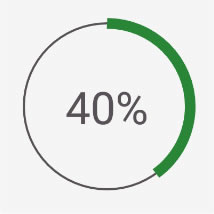
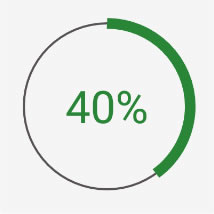
Documentation improvement

Changed region(s): [[0.3084, 0.4206, 0.7009, 0.5888]]

diff --git a/app/src/main/java/com/sccomponents/widgets/demo/MainActivity.java b/app/src/main/java/com/sccomponents/widgets/demo/MainActivity.java
@@ -16,33 +16,5 @@ public class MainActivity extends AppCompatActivity {
     protected void onCreate(Bundle savedInstanceState) {
         super.onCreate(savedInstanceState);
         setContentView(R.layout.activity_main);
-
-        // Get the gauge
-        final ScGauge gauge = (ScGauge) this.findViewById(R.id.gauge);
-        assert gauge != null;
-
-        // Hide the notchs.
-        // You can obtain the same result setting the notchs number to zero.
-        gauge.show(true, false, true);
-        // He set the value to 80% take as reference a range of 0, 100.
-        gauge.setValue(40, 0, 100);
-
-        // Event
-        gauge.setOnEventListener(new ScGauge.OnEventListener() {
-            @Override
-            public void onValueChange(float degrees) {
-                // Get the text control
-                TextView counter = (TextView) MainActivity.this.findViewById(R.id.counter);
-                assert counter != null;
-
-                // Note that I used translateAngleToValue but in this case is nonsense.
-                // In this case I could use getValue(0, 100) for have the same result.
-                // This is right if you are using the animator for move the value because the
-                // degrees changes over time gradually instead the getValue methods return always
-                // the final value to reach.
-                int value = (int) gauge.translateAngleToValue(degrees, 0, 100);
-                counter.setText(value + "%");
-            }
-        });
     }
 }

diff --git a/ScGauge_SimpleAndBeauty.md b/ScGauge_SimpleAndBeauty.md
@@ -1,5 +1,5 @@
 # ScGauge - Simple and beauty
-Some examples or go back to the class (documentation)[ScGauge.md].
+Some examples or go back to the class [documentation](ScGauge.md).
 
 ### Flat 1
 
@@ -9,8 +9,7 @@ Some examples or go back to the class (documentation)[ScGauge.md].
         android:layout_width="200dp"
         android:layout_height="200dp"
         android:background="#f5f5f5"
-        android:padding="10dp"
-        >
+        android:padding="10dp" >
 
         <com.sccomponents.widgets.ScGauge
             xmlns:sc="http://schemas.android.com/apk/res-auto"
@@ -98,7 +97,7 @@ Some examples or go back to the class (documentation)[ScGauge.md].
             android:layout_height="wrap_content"
             android:layout_gravity="center"
             android:text="0%"
-            android:textColor="#585258"
+            android:textColor="#288636"
             android:textSize="42dp"/>
 
     </FrameLayout>
@@ -117,6 +116,89 @@ Some examples or go back to the class (documentation)[ScGauge.md].
 
         // Event
         ...
+```
+
+
+### More than one
+
+<img align="right" src="https://github.com/Paroca72/sc-widgets/blob/master/raw/scgauge/4.jpg"> 
+```xml
+    <FrameLayout
+        android:layout_width="200dp"
+        android:layout_height="200dp"
+        android:background="#f5f5f5"
+        android:padding="10dp">
+
+        <com.sccomponents.widgets.ScGauge
+            xmlns:sc="http://schemas.android.com/apk/res-auto"
+            android:layout_width="match_parent"
+            android:layout_height="wrap_content"
+            android:padding="10dp"
+            sc:scc_angle_start="-90"
+            sc:scc_angle_sweep="270"
+            sc:scc_progress_color="#35c44a"
+            sc:scc_progress_size="14dp"
+            sc:scc_stroke_color="#dad6da"
+            sc:scc_stroke_size="14dp"
+            sc:scc_value="90"/>
+
+        <com.sccomponents.widgets.ScGauge
+            xmlns:sc="http://schemas.android.com/apk/res-auto"
+            android:layout_width="match_parent"
+            android:layout_height="wrap_content"
+            android:padding="25dp"
+            sc:scc_angle_start="-90"
+            sc:scc_angle_sweep="270"
+            sc:scc_progress_color="#35c4a7"
+            sc:scc_progress_size="14dp"
+            sc:scc_stroke_color="#dad6da"
+            sc:scc_stroke_size="14dp"
+            sc:scc_value="180"/>
+
+        <com.sccomponents.widgets.ScGauge
+            xmlns:sc="http://schemas.android.com/apk/res-auto"
+            android:layout_width="match_parent"
+            android:layout_height="wrap_content"
+            android:padding="40dp"
+            sc:scc_angle_start="-90"
+            sc:scc_angle_sweep="270"
+            sc:scc_progress_color="#df7d0d"
+            sc:scc_progress_size="14dp"
+            sc:scc_stroke_color="#dad6da"
+            sc:scc_stroke_size="14dp"
+            sc:scc_value="135"/>
+
+        <TextView
+            android:layout_width="wrap_content"
+            android:layout_height="wrap_content"
+            android:layout_gravity="top|center|right"
+            android:text="Some value 30%"
+            android:textSize="10dp"
+            android:layout_marginRight="96dp"
+            android:gravity="right"
+            android:layout_marginTop="16dp"/>
+
+        <TextView
+            android:layout_width="wrap_content"
+            android:layout_height="wrap_content"
+            android:layout_gravity="top|center|right"
+            android:text="Some value 75%"
+            android:textSize="10dp"
+            android:layout_marginRight="96dp"
+            android:gravity="right"
+            android:layout_marginTop="31dp"/>
+
+        <TextView
+            android:layout_width="wrap_content"
+            android:layout_height="wrap_content"
+            android:layout_gravity="top|center|right"
+            android:text="Some value 50%"
+            android:textSize="10dp"
+            android:layout_marginRight="96dp"
+            android:gravity="right"
+            android:layout_marginTop="47dp"/>
+
+    </FrameLayout>
 ```
 
 

diff --git a/ScGauge.md b/ScGauge.md
@@ -134,6 +134,7 @@ Press to above link for see the code application.
 
 ![image](https://github.com/Paroca72/sc-widgets/blob/master/raw/scgauge/2.jpg)
 ![image](https://github.com/Paroca72/sc-widgets/blob/master/raw/scgauge/3.jpg)
+![image](https://github.com/Paroca72/sc-widgets/blob/master/raw/scgauge/4.jpg)
 
 
 # License
